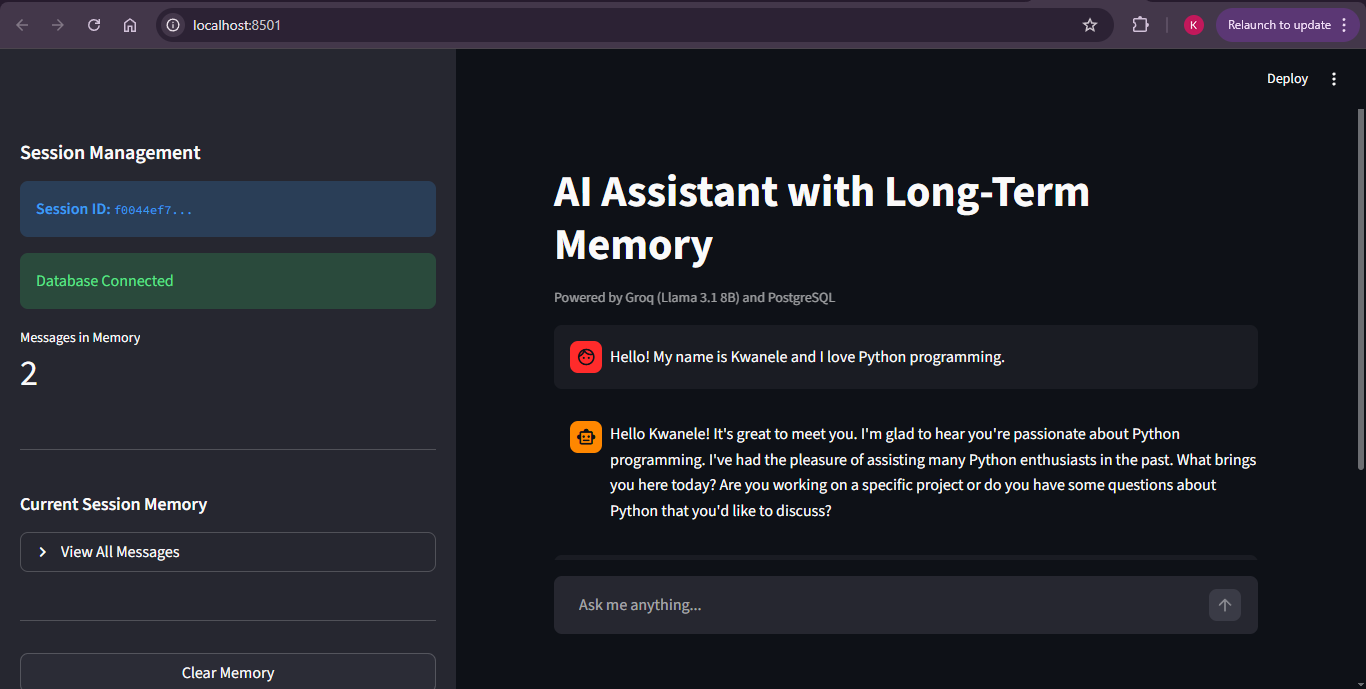
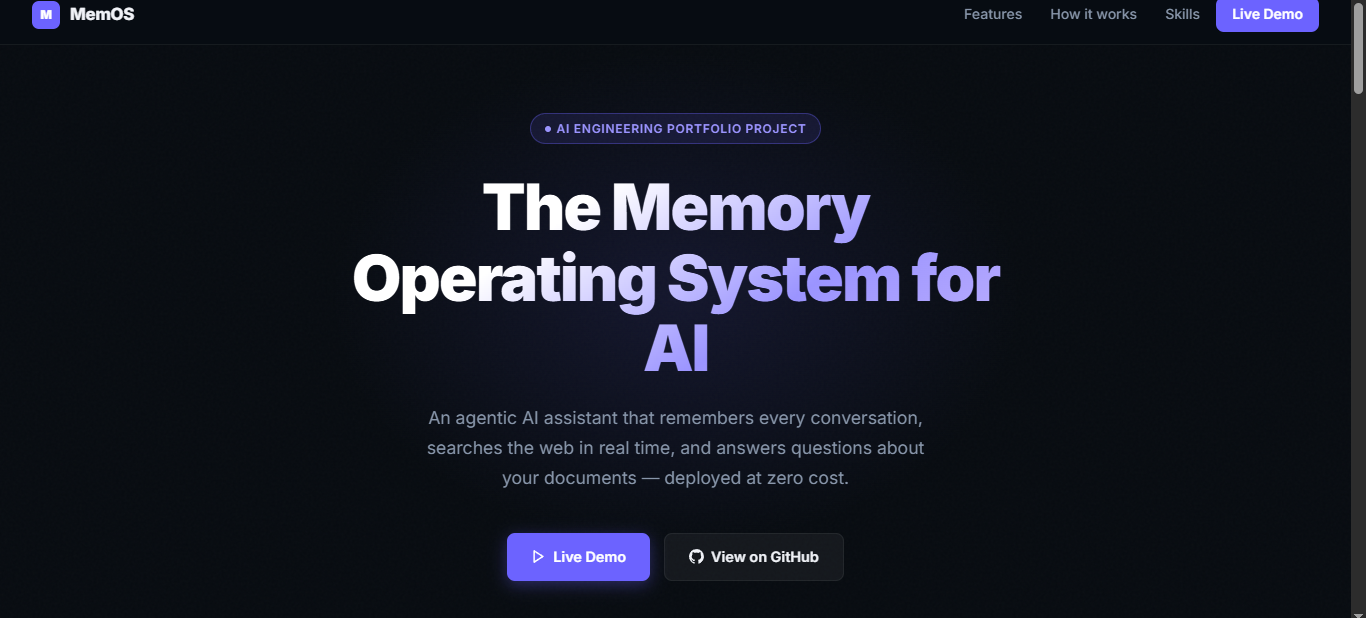
MemOS project v2 rewrite

diff --git a/index.html b/index.html
@@ -701,26 +701,34 @@
             </div>
           </article>
 
-          <!-- AI Memory Assistant -->
+          <!-- MemOS -->
           <article class="pcard" data-category="ai">
             <div class="pcard__image">
-              <img src="./images/portfolio/AIMemo.png" alt="AI Long-Term Memory Assistant" loading="lazy" />
-              <span class="badge-github-only pcard__badge">GitHub Only</span>
+              <img src="./images/portfolio/AIMemo.png" alt="MemOS — AI Memory Operating System" loading="lazy" />
+              <span class="badge-live pcard__badge"><span class="badge-live__dot"></span>Live</span>
             </div>
             <div class="pcard__body">
               <div class="pcard__tags">
                 <span class="tag">Python</span>
-                <span class="tag">LangChain</span>
+                <span class="tag">LangGraph</span>
+                <span class="tag">ChromaDB</span>
                 <span class="tag">PostgreSQL</span>
-                <span class="tag">LLM</span>
+                <span class="tag">Groq</span>
+                <span class="tag">Streamlit</span>
+                <span class="tag">LangSmith</span>
+                <span class="tag">Tavily</span>
               </div>
-              <h3 class="pcard__title">AI Memory Assistant</h3>
-              <p class="pcard__desc">Conversational AI with persistent long-term memory in PostgreSQL via LangChain. JSONB history, session tracking, and auto metadata triggers.</p>
+              <h3 class="pcard__title">MemOS</h3>
+              <p class="pcard__desc">Agentic AI assistant with a custom LangGraph StateGraph, persistent PostgreSQL memory across sessions, ChromaDB RAG over uploaded documents, Tavily live web search, and full LangSmith observability — deployed at zero cost.</p>
             </div>
             <div class="pcard__hover">
-              <a href="https://github.com/dev-k99/AI-memory-assistance" class="pcard__link pcard__link--github" target="_blank" rel="noopener noreferrer">
+              <a href="https://memos-v2-1.streamlit.app" class="pcard__link pcard__link--live" target="_blank" rel="noopener noreferrer">
+                <svg width="16" height="16" viewBox="0 0 24 24" fill="none" stroke="currentColor" stroke-width="2"><path d="M18 13v6a2 2 0 0 1-2 2H5a2 2 0 0 1-2-2V8a2 2 0 0 1 2-2h6"></path><polyline points="15 3 21 3 21 9"></polyline><line x1="10" y1="14" x2="21" y2="3"></line></svg>
+                Live App
+              </a>
+              <a href="https://github.com/dev-k99/MemOS" class="pcard__link pcard__link--github" target="_blank" rel="noopener noreferrer">
                 <svg width="16" height="16" viewBox="0 0 24 24" fill="none" stroke="currentColor" stroke-width="2"><path d="M9 19c-5 1.5-5-2.5-7-3m14 6v-3.87a3.37 3.37 0 0 0-.94-2.61c3.14-.35 6.44-1.54 6.44-7A5.44 5.44 0 0 0 20 4.77 5.07 5.07 0 0 0 19.91 1S18.73.65 16 2.48a13.38 13.38 0 0 0-7 0C6.27.65 5.09 1 5.09 1A5.07 5.07 0 0 0 5 4.77a5.44 5.44 0 0 0-1.5 3.78c0 5.42 3.3 6.61 6.44 7A3.37 3.37 0 0 0 9 18.13V22"></path></svg>
-                View Code
+                GitHub
               </a>
             </div>
           </article>